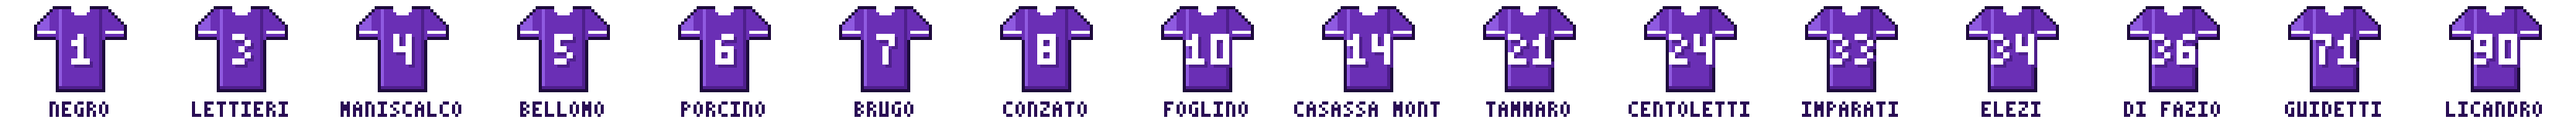
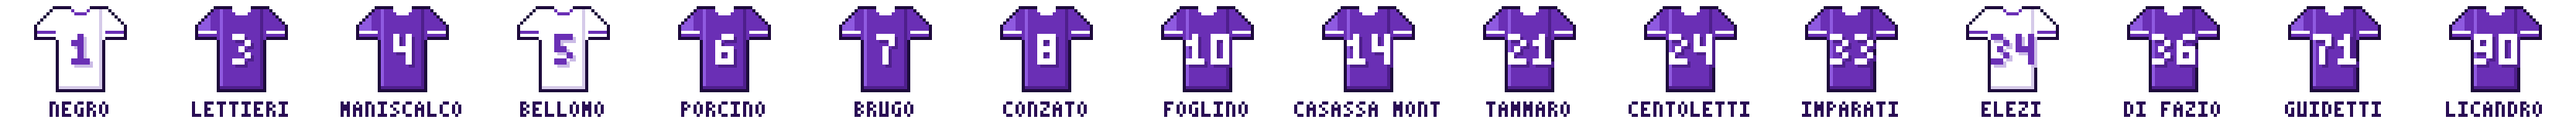
Add files via upload

Changed region(s): [[0.75, 0.0625, 0.8125, 0.7188], [0.1875, 0.0625, 0.25, 0.7188], [0.0, 0.0625, 0.0625, 0.7188]]

diff --git a/index.html b/index.html
@@ -85,6 +85,37 @@ td.res.tbd,tr.tbd td.res{color:#b07800;font-size:11px}
 #cl tr.us td{background:var(--sel);color:#fff;font-weight:bold;border-color:#7f4fc4}
 #cl tr.us th{background:#4a1c86;color:#fff}
 #cl tr.riv td.nm::after{content:" !";color:var(--red);font-weight:bold}
+/* ===== campo 6 vs 6 ===== */
+.court{position:relative;margin-bottom:6px;border:1px solid #7d6ea0;overflow:hidden;touch-action:manipulation}
+.floor{position:absolute;left:0;right:0;top:0;background:#7a45c9;
+  background:repeating-linear-gradient(90deg,#7444c4 0 14px,#7a4acb 14px 28px)}
+.play{position:absolute;left:6%;right:6%;top:9%;bottom:9%;border:2px solid #fff;
+  background:repeating-linear-gradient(90deg,#e7dbfa 0 12px,#eee5fc 12px 24px)}
+.al{position:absolute;top:0;bottom:0;width:0;border-left:2px solid rgba(255,255,255,.95)}
+.al.a1{left:33.33%} .al.a2{left:66.66%}
+.play::after{content:"";position:absolute;top:0;bottom:0;left:50%;margin-left:-1px;border-left:2px solid #fff}
+.net{position:absolute;left:50%;top:4%;bottom:4%;width:8px;margin-left:-4px;
+  background:repeating-linear-gradient(0deg,rgba(30,10,60,.55) 0 1px,transparent 1px 4px),rgba(255,255,255,.35);
+  border-left:2px solid #1e0a3c;border-right:2px solid #1e0a3c;box-shadow:1px 0 0 rgba(255,255,255,.6)}
+.net::before,.net::after{content:"";position:absolute;left:-3px;width:10px;height:6px;background:#1e0a3c}
+.net::before{top:-3px} .net::after{bottom:-3px}
+.bench{position:absolute;left:0;right:0;bottom:0;background:repeating-conic-gradient(#f4effb 0 25%,#fff 0 50%) 0 0/16px 16px;border-top:1px solid #7d6ea0}
+.bench span{position:absolute;left:6px;top:3px;font:10px var(--ui);color:#8a7fa0}
+.pl{position:absolute;left:0;top:0;transform:translate(-50%,-50%);display:flex;flex-direction:column;align-items:center;gap:2px;
+  transition:left .75s cubic-bezier(.65,0,.35,1),top .75s cubic-bezier(.65,0,.35,1);z-index:2;pointer-events:none}
+.pl .hop{display:flex;flex-direction:column;align-items:center;gap:2px}
+.pl canvas{image-rendering:pixelated;image-rendering:crisp-edges;display:block}
+.pl .shadow{width:30px;height:5px;margin-top:-2px;border-radius:50%;background:rgba(30,10,60,.22)}
+.ball{position:absolute;left:0;top:0;width:18px;height:18px;margin:-9px 0 0 -9px;z-index:3;pointer-events:none;
+  transition:left .9s cubic-bezier(.3,.7,.3,1),top .9s cubic-bezier(.3,.7,.3,1)}
+.ball img{width:100%;height:100%;display:block}
+.shufrow{display:flex;justify-content:flex-end;margin:0 0 14px}
+.gelbtn{position:relative;overflow:hidden;min-height:40px;padding:0 18px;border-radius:999px;border:1px solid #4a1c86;cursor:pointer;
+  background:linear-gradient(#a77ce6,#6a2fb5 60%,#5b26a0);color:#fff;font:bold 13px Verdana,Geneva,sans-serif;letter-spacing:.5px;
+  text-shadow:0 1px 1px rgba(40,0,80,.5);box-shadow:0 1px 3px rgba(74,28,134,.35);-webkit-appearance:none;appearance:none}
+.gelbtn::before{content:"";position:absolute;left:6px;right:6px;top:2px;height:46%;border-radius:999px;background:linear-gradient(rgba(255,255,255,.65),rgba(255,255,255,.08))}
+.gelbtn:active{filter:brightness(.92)}
+@media (prefers-reduced-motion: reduce){ .pl,.ball{transition:none} }
 .roster{display:flex;gap:4px;overflow-x:auto;-webkit-overflow-scrolling:touch;scroll-snap-type:x proximity;padding:10px 6px 12px;
   border:1px solid #7d6ea0;box-shadow:inset 1px 1px 0 #6b5a8e;
   background:repeating-conic-gradient(#f4effb 0 25%,#ffffff 0 50%) 0 0/16px 16px}
@@ -113,6 +144,13 @@ td.res.tbd,tr.tbd td.res{color:#b07800;font-size:11px}
   </div>
 
   <div class="alerts" id="alerts"></div>
+
+  <p class="cmd">&gt;&gt; <i>campo</i>('6 vs 6')</p>
+  <div class="court" id="court" aria-label="Campo con formazioni casuali">
+    <div class="floor"><div class="play"><i class="al a1"></i><i class="al a2"></i></div><div class="net"></div></div>
+    <div class="bench"><span>panchina</span></div>
+  </div>
+  <div class="shufrow"><button class="gelbtn" id="shuffle" type="button">⟳ Shuffle</button></div>
 
   <p class="cmd">&gt;&gt; <i>classifica</i>('eccellenza A')</p>
   <div class="grid">
@@ -273,23 +311,137 @@ function glyph(c,ch,x,y,col,s){
   const b = PX[ch] || PX[" "]; c.fillStyle = col;
   for(let i=0;i<15;i++) if(b[i]==="1") c.fillRect(x+(i%3)*s, y+Math.floor(i/3)*s, s, s);
 }
+const LIBERO = new Set([1,5,34]);   // Negro, Bellomo, Elezi
+const KC_LIB = {O:"#1e0a3c",P:"#ffffff",L:"#ffffff",D:"#d6cbe9",W:"#6a2fb5"};
+function kitCanvas(num, css){
+  const lib = LIBERO.has(num), pal = lib ? KC_LIB : KC;
+  const j = document.createElement("canvas"); j.width = 32; j.height = 30;
+  j.style.width = (32*css)+"px"; j.style.height = (30*css)+"px";
+  const c = j.getContext("2d");
+  KIT.forEach((r,y) => { for(let x=0;x<r.length;x++){ const col = pal[r[x]]; if(col){ c.fillStyle = col; c.fillRect(x,y,1,1); } } });
+  const t = String(num), w = t.length*6 + (t.length-1)*2; let x = Math.floor((32-w)/2);
+  const fg = lib ? "#6a2fb5" : "#ffffff", sh = lib ? "#cbbbe6" : KC.D;
+  for(const ch of t){ glyph(c,ch,x+1,12,sh,2); glyph(c,ch,x,11,fg,2); x += 8; }
+  return j;
+}
+function nameCanvas(name, css){
+  const up = name.toUpperCase(), nw = up.length*4-1;
+  const n = document.createElement("canvas"); n.width = nw; n.height = 5;
+  n.style.width = (nw*css)+"px"; n.style.height = (5*css)+"px";
+  const nc = n.getContext("2d"); let nx = 0; for(const ch of up){ glyph(nc,ch,nx,0,"#2a0e55",1); nx += 4; }
+  n.setAttribute("aria-hidden","true");
+  return n;
+}
 function drawRoster(){
   const box = document.getElementById("roster"); if(!box || box.childElementCount) return;
   ROSA.forEach(([name,num]) => {
     const k = document.createElement("div"); k.className = "kit";
-    const j = document.createElement("canvas"); j.width = 32; j.height = 30; j.style.width = "64px"; j.style.height = "60px";
-    const c = j.getContext("2d");
-    KIT.forEach((r,y) => { for(let x=0;x<r.length;x++){ const col = KC[r[x]]; if(col){ c.fillStyle = col; c.fillRect(x,y,1,1); } } });
-    const t = String(num), w = t.length*6 + (t.length-1)*2; let x = Math.floor((32-w)/2);
-    for(const ch of t){ glyph(c,ch,x+1,12,KC.D,2); glyph(c,ch,x,11,KC.W,2); x += 8; }
-    const up = name.toUpperCase(), nw = up.length*4-1;
-    const n = document.createElement("canvas"); n.width = nw; n.height = 5; n.style.width = (nw*2)+"px"; n.style.height = "10px";
-    const nc = n.getContext("2d"); let nx = 0; for(const ch of up){ glyph(nc,ch,nx,0,"#2a0e55",1); nx += 4; }
-    j.setAttribute("role","img"); j.setAttribute("aria-label", `${name}, numero ${num}`); n.setAttribute("aria-hidden","true");
-    k.append(j,n); box.append(k);
+    const j = kitCanvas(num, 2);
+    j.setAttribute("role","img"); j.setAttribute("aria-label", `${name}, numero ${num}${LIBERO.has(num)?", libero":""}`);
+    k.append(j, nameCanvas(name, 2)); box.append(k);
   });
 }
 drawRoster();
+
+/* ===== campo 6 vs 6 con shuffle ===== */
+const Court = (() => {
+  const box = document.getElementById("court"); if(!box) return null;
+  const reduce = matchMedia("(prefers-reduced-motion: reduce)").matches;
+  const els = new Map();
+  ROSA.forEach(([name,num]) => {
+    const p = document.createElement("div"); p.className = "pl";
+    const h = document.createElement("div"); h.className = "hop";
+    const j = kitCanvas(num, 1.25); j.setAttribute("role","img"); j.setAttribute("aria-label", `${name} ${num}`);
+    const sd = document.createElement("i"); sd.className = "shadow";
+    h.append(j, nameCanvas(name, 1)); p.append(h, sd); box.append(p); els.set(num, p);
+  });
+  const ball = document.createElement("div"); ball.className = "ball";
+  const bi = document.createElement("img"); bi.alt = ""; const orb = document.querySelector(".head .orb"); if(orb) bi.src = orb.src;
+  ball.append(bi); box.append(ball);
+
+  let W = 0, CH = 0, BH = 0, layout = null;
+  function size(){
+    W = box.clientWidth; CH = Math.round(W * 0.6); BH = 68;
+    box.style.height = (CH + BH) + "px";
+    box.querySelector(".floor").style.height = CH + "px";
+    box.querySelector(".bench").style.height = BH + "px";
+  }
+  // posizioni: squadra sinistra guarda a destra, squadra destra guarda a sinistra
+  const X = {L:{front:.40, back:.185}, R:{front:.60, back:.815}}, Y = [.2,.5,.8];
+  const slots = side => {
+    const f = X[side].front, b = X[side].back, top = side==="L";
+    // ordine: posizioni 1..6 (1 = battitore, dietro a destra)
+    return top
+      ? [[b,Y[2]],[f,Y[2]],[f,Y[1]],[f,Y[0]],[b,Y[0]],[b,Y[1]]]
+      : [[b,Y[0]],[f,Y[0]],[f,Y[1]],[f,Y[2]],[b,Y[2]],[b,Y[1]]];
+  };
+  const shuffleArr = a => { for(let i=a.length-1;i>0;i--){ const k = Math.floor(Math.random()*(i+1)); [a[i],a[k]] = [a[k],a[i]]; } return a; };
+  function deal(){
+    // un libero per squadra (se ci sono), gli altri a caso
+    const libs = shuffleArr(ROSA.map(r => r[1]).filter(n => LIBERO.has(n)));
+    const rest = shuffleArr(ROSA.map(r => r[1]).filter(n => !LIBERO.has(n)));
+    const teams = {L:[], R:[]}, bench = [];
+    if(libs.length) teams.L.push(libs.shift());
+    if(libs.length) teams.R.push(libs.shift());
+    bench.push(...libs);
+    for(const n of rest){
+      const side = ["L","R"].find(sd => teams[sd].length < 6);
+      side ? teams[side].push(n) : bench.push(n);
+    }
+    shuffleArr(bench);
+    const pos = new Map();
+    for(const sd of ["L","R"]){
+      const s6 = slots(sd), list = teams[sd];
+      const li = list.findIndex(n => LIBERO.has(n));
+      const order = Array(6).fill(null);
+      if(li >= 0){ const k = Math.random() < .5 ? 4 : 5; order[k] = list[li]; }   // libero in seconda linea, mai al servizio
+      let q = list.filter((n,i) => i !== li);
+      for(let k=0;k<6;k++) if(order[k] === null) order[k] = q.shift();
+      order.forEach((n,k) => pos.set(n, {fx:s6[k][0], fy:s6[k][1], court:true}));
+    }
+    bench.forEach((n,i) => pos.set(n, {fx:(i+1)/(bench.length+1), fy:null, court:false}));
+    const server = Math.random() < .5 ? "L" : "R";
+    return {pos, server, serverNum: (() => { for(const [n,p] of pos) if(p.court && p.fx === X[server].back && p.fy === (server==="L"?Y[2]:Y[0])) return n; })()};
+  }
+  const px = p => {
+    const pl = .06, pt = .09, pw = .88, ph = .82;
+    if(!p.court) return [p.fx * W, CH + BH/2 + 7];
+    return [(pl + pw*p.fx) * W, (pt + ph*p.fy) * CH];
+  };
+  function place(animate){
+    els.forEach((el, n) => {
+      const [x,y] = px(layout.pos.get(n));
+      el.style.left = x + "px"; el.style.top = y + "px";
+    });
+    const sp = layout.pos.get(layout.serverNum);
+    if(sp){ const [x,y] = px(sp); const dx = layout.server === "L" ? -22 : 22; ball.style.left = (x+dx) + "px"; ball.style.top = (y-14) + "px"; }
+  }
+  function hop(){
+    if(reduce) return;
+    let i = 0;
+    els.forEach(el => {
+      const d = (i++) * 30;
+      el.style.transitionDelay = d + "ms";
+      el.firstChild.animate([{transform:"translateY(0) scale(1)"},{transform:"translateY(-16px) scale(1.12)"},{transform:"translateY(0) scale(1)"}],
+        {duration:750, delay:d, easing:"cubic-bezier(.3,.6,.4,1)"});
+    });
+    ball.animate([{transform:"rotate(0) scale(1)"},{transform:"rotate(360deg) scale(1.4)"},{transform:"rotate(720deg) scale(1)"}],{duration:900,easing:"ease-out"});
+  }
+  function shuffle(){ layout = deal(); hop(); place(true); }
+  function init(){
+    size(); layout = deal();
+    // ingresso: tutti partono dalla rete
+    els.forEach(el => { el.style.transition = "none"; el.style.left = (W/2)+"px"; el.style.top = (CH/2)+"px"; });
+    ball.style.transition = "none"; ball.style.left = (W/2)+"px"; ball.style.top = (CH/2)+"px";
+    box.offsetHeight;
+    els.forEach(el => el.style.transition = ""); ball.style.transition = "";
+    requestAnimationFrame(() => { hop(); place(true); });
+  }
+  let rt; addEventListener("resize", () => { clearTimeout(rt); rt = setTimeout(() => { size(); els.forEach(el => el.style.transitionDelay = "0ms"); place(false); }, 120); });
+  document.getElementById("shuffle").addEventListener("click", shuffle);
+  init();
+  return {shuffle};
+})();
 
 function show(j){
   try{ use(j); render(); }
